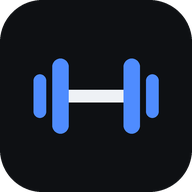
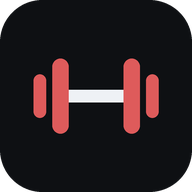
Add files via upload

Changed region(s): [[0.625, 0.2812, 0.8438, 0.7188], [0.1562, 0.2812, 0.375, 0.7188]]

diff --git a/index.html b/index.html
@@ -13,7 +13,7 @@
 <link rel="icon" type="image/png" href="icon-192.png">
 <link rel="apple-touch-icon" href="apple-touch-icon.png">
 <style>
-:root{--bg:#0e1013;--card:#171a20;--card2:#20242c;--line:#2a2f39;--text:#eef1f5;--mute:#8b93a1;--acc:#4f8cff;--ok:#2fbf71;--warn:#ff5d5d;--r:14px;color-scheme:dark}
+:root{--bg:#0e1013;--card:#171a20;--card2:#20242c;--line:#2a2f39;--text:#eef1f5;--mute:#8b93a1;--acc:#de5b5b;--accsoft:rgba(222,91,91,.15);--acclt:#f4a5a5;--ok:#2fbf71;--warn:#ff7a5c;--r:14px;color-scheme:dark}
 *{box-sizing:border-box;-webkit-tap-highlight-color:transparent}
 html,body{margin:0;background:var(--bg);color:var(--text);font:15px/1.4 -apple-system,system-ui,"Segoe UI",Roboto,sans-serif}
 body{padding-bottom:calc(72px + env(safe-area-inset-bottom))}
@@ -23,6 +23,7 @@ header{position:sticky;top:0;z-index:5;background:rgba(14,16,19,.94);backdrop-fi
 header h1{font-size:22px;margin:0;flex:1;white-space:nowrap;overflow:hidden;text-overflow:ellipsis}
 header h1.sm{font-size:17px}
 main{padding:12px 16px 24px;max-width:640px;margin:0 auto}
+h2::before{content:'';display:inline-block;width:7px;height:7px;border-radius:2px;background:var(--acc);margin-right:8px;vertical-align:1px}
 h2{font-size:13px;text-transform:uppercase;letter-spacing:.06em;color:var(--mute);margin:20px 0 8px;font-weight:600}
 nav{position:fixed;bottom:0;left:0;right:0;display:flex;background:#12151a;border-top:1px solid var(--line);padding-bottom:env(safe-area-inset-bottom);z-index:6}
 nav button{flex:1;background:none;border:0;color:var(--mute);padding:8px 0 6px;font-size:11px;display:flex;flex-direction:column;align-items:center;gap:2px;font-family:inherit}
@@ -32,7 +33,10 @@ body.wk nav,body.wk #banner{display:none}
 #banner{position:fixed;left:10px;right:10px;bottom:calc(64px + env(safe-area-inset-bottom));background:var(--acc);color:#fff;border-radius:12px;padding:10px 14px;display:none;z-index:6;font-weight:600;box-shadow:0 6px 20px rgba(0,0,0,.4)}
 #banner.show{display:flex;align-items:center;gap:8px}
 .card{background:var(--card);border:1px solid var(--line);border-radius:var(--r);padding:12px 14px;margin-bottom:10px}
-.card.hl{border-color:var(--acc)}
+.card.hl{border-color:var(--acc);background:linear-gradient(135deg,var(--accsoft),var(--card) 60%)}
+.card.rt{border-left:3px solid var(--acc)}
+.btn.soft{background:var(--accsoft);color:var(--acclt)}
+header::after{content:'';position:absolute;left:0;right:0;bottom:-1px;height:2px;background:linear-gradient(90deg,var(--acc),transparent 70%)}
 .tap{cursor:pointer}
 .row{display:flex;align-items:center;gap:8px}
 .grow{flex:1;min-width:0}
@@ -43,7 +47,7 @@ body.wk nav,body.wk #banner{display:none}
 .btn{border:0;border-radius:10px;padding:10px 14px;font:600 15px inherit;font-family:inherit;background:var(--card2);color:var(--text);cursor:pointer}
 .btn.pri{background:var(--acc);color:#fff}
 .btn.ok{background:var(--ok);color:#fff}
-.btn.danger{background:transparent;color:var(--warn);border:1px solid #4a2a2e}
+.btn.danger{background:transparent;color:var(--warn);border:1px solid #4a2f2a}
 .btn.ghost{background:transparent;border:1px dashed var(--line);color:var(--acc)}
 .btn.full{width:100%;margin-top:8px}
 .btn.sm{padding:7px 10px;font-size:14px}
@@ -53,7 +57,7 @@ body.wk nav,body.wk #banner{display:none}
 .bigbtn .ico{width:40px;height:40px;border-radius:10px;display:flex;align-items:center;justify-content:center;font-size:20px;flex:none}
 .bigbtn.red{color:var(--warn)}
 .iconbtn{background:none;border:0;color:var(--mute);font-size:20px;padding:4px 8px;cursor:pointer;font-family:inherit}
-.fab{position:fixed;right:18px;bottom:calc(78px + env(safe-area-inset-bottom));width:56px;height:56px;border-radius:50%;background:var(--acc);color:#fff;border:0;font-size:30px;line-height:1;box-shadow:0 6px 20px rgba(0,0,0,.45);z-index:4;cursor:pointer}
+.fab{box-shadow:0 6px 20px rgba(222,91,91,.4)!important;position:fixed;right:18px;bottom:calc(78px + env(safe-area-inset-bottom));width:56px;height:56px;border-radius:50%;background:var(--acc);color:#fff;border:0;font-size:30px;line-height:1;box-shadow:0 6px 20px rgba(0,0,0,.45);z-index:4;cursor:pointer}
 input,select{width:100%;background:var(--card2);color:var(--text);border:1px solid var(--line);border-radius:10px;padding:10px 12px;font:16px inherit;font-family:inherit;outline:none}
 input:focus,select:focus{border-color:var(--acc)}
 label{display:block;font-size:12.5px;color:var(--mute);margin:12px 0 0}
@@ -64,14 +68,14 @@ label input,label select{margin-top:5px}
 .chips.wrap{flex-wrap:wrap;overflow:visible}
 .chip{flex:none;border:1px solid var(--line);background:var(--card);color:var(--text);border-radius:999px;padding:6px 12px;font-size:13.5px;cursor:pointer;font-family:inherit}
 .chip.on{background:var(--acc);border-color:var(--acc);color:#fff}
-.tag{display:inline-block;font-size:11.5px;background:var(--card2);color:var(--mute);border-radius:6px;padding:2px 7px;margin:4px 4px 0 0}
+.tag{display:inline-block;font-size:11.5px;background:var(--accsoft);color:var(--acclt);border-radius:6px;padding:2px 7px;margin:4px 4px 0 0}
 .badge{display:inline-block;font-size:11px;font-weight:600;border-radius:6px;padding:2px 7px}
 .t0{background:#1d2c48;color:#8db4ff}.t1{background:#45311a;color:#ffb871}.t2{background:#33224a;color:#c9a2ff}
 .days{display:grid;grid-template-columns:repeat(7,1fr);gap:6px}
 .days .chip{padding:9px 0;text-align:center}
 .dmini{display:inline-flex;gap:3px}
 .dmini span{font-size:10.5px;width:17px;height:17px;border-radius:5px;display:inline-flex;align-items:center;justify-content:center;background:var(--card2);color:#555c68}
-.dmini span.on{background:#1d2c48;color:#8db4ff}
+.dmini span.on{background:var(--accsoft);color:var(--acclt)}
 .seg{display:flex;background:var(--card);border:1px solid var(--line);border-radius:10px;padding:3px;margin:8px 0}
 .seg button{flex:1;border:0;background:none;color:var(--mute);padding:7px 0;border-radius:8px;font:600 12.5px inherit;font-family:inherit}
 .seg button.on{background:var(--card2);color:var(--text)}
@@ -152,7 +156,7 @@ label input,label select{margin-top:5px}
 .achcard{display:flex;align-items:center;gap:12px}
 .achcard .big{font-size:34px}
 .prog{height:6px;background:var(--card2);border-radius:6px;overflow:hidden;margin-top:8px}
-.prog i{display:block;height:100%;background:linear-gradient(90deg,var(--acc),#ffd76a);border-radius:6px}
+.prog i{display:block;height:100%;background:linear-gradient(90deg,var(--acc),#ffb38a);border-radius:6px}
 .medals{display:grid;grid-template-columns:repeat(3,1fr);gap:10px;margin-top:10px}
 .medal{background:var(--card);border:1px solid var(--line);border-radius:14px;padding:12px 6px;text-align:center;cursor:pointer;font-family:inherit;color:var(--text)}
 .medal .e{font-size:34px;line-height:1.2}
@@ -256,7 +260,7 @@ function dmini(days){return `<span class="dmini">${DAYS.map((d,i)=>`<span class=
 function vTrain(){
   const t=todayIdx();
   const todays=db.routines.filter(r=>r.days.includes(t)),others=db.routines.filter(r=>!r.days.includes(t));
-  const card=r=>{const ld=lastDone(r.id);return `<div class="card"><div class="row"><div class="grow"><b>${esc(r.name)}</b><div style="margin-top:4px">${dmini(r.days)}</div></div><button class="btn pri" data-a="start" data-id="${r.id}">Empezar</button></div>
+  const card=r=>{const ld=lastDone(r.id);return `<div class="card rt"><div class="row"><div class="grow"><b>${esc(r.name)}</b><div style="margin-top:4px">${dmini(r.days)}</div></div><button class="btn pri" data-a="start" data-id="${r.id}">Empezar</button></div>
     <div class="mute small" style="margin-top:8px">${r.items.map(it=>esc(getEx(it.exId)?.name||'?')).join(' · ')||'Sin ejercicios'}</div>
     ${ld?`<div class="mute small" style="margin-top:4px">Último: ${fmtDate(ld)}</div>`:''}</div>`};
   let h='';
@@ -272,7 +276,7 @@ function vTrain(){
 function vRoutines(){
   const list=db.routines.filter(r=>rFilter===null||r.days.includes(rFilter));
   let h=`<div class="chips" style="margin-bottom:10px"><button class="chip ${rFilter===null?'on':''}" data-a="rFilter" data-d="">Todas</button>${DAY_FULL.map((d,i)=>`<button class="chip ${rFilter===i?'on':''}" data-a="rFilter" data-d="${i}">${d}</button>`).join('')}</div>`;
-  h+=list.length?list.map(r=>`<div class="card tap" data-a="rOpen" data-id="${r.id}"><div class="row"><b class="grow">${esc(r.name)}</b>${dmini(r.days)}</div>
+  h+=list.length?list.map(r=>`<div class="card tap rt" data-a="rOpen" data-id="${r.id}"><div class="row"><b class="grow">${esc(r.name)}</b>${dmini(r.days)}</div>
     <div class="mute small" style="margin-top:6px">${r.items.length} ejercicio${r.items.length===1?'':'s'} · ${r.items.reduce((a,b)=>a+(+b.sets||0),0)} series</div>
     <div class="small" style="margin-top:4px">${r.items.map(it=>esc(getEx(it.exId)?.name||'?')).join(' · ')}</div></div>`).join('')
     :`<p class="empty">${db.routines.length?'No hay rutinas este día.':'Aún no tienes rutinas. Pulsa + para crear una.'}</p>`;
@@ -296,7 +300,7 @@ function renderExList(){
 function volume(h){return h.exercises.reduce((a,e)=>a+e.sets.reduce((b,s)=>b+(+s.w||0)*(+s.r||0),0),0)}
 function vHistory(){
   if(!db.history.length)return achCard()+`<p class="empty">Aún no hay entrenamientos registrados.</p>`;
-  return achCard()+db.history.map(h=>`<div class="card tap" data-a="hOpen" data-id="${h.id}"><b>${esc(h.name)}</b><div class="mute small">${fmtDate(h.start)}</div>
+  return achCard()+`<h2>Entrenos</h2>`+db.history.map(h=>`<div class="card tap rt" data-a="hOpen" data-id="${h.id}"><div class="row"><div class="grow"><b>${esc(h.name)}</b><div class="mute small">${fmtDate(h.start)}</div></div><button class="btn sm soft" data-a="repeat" data-id="${h.id}">↻ Repetir</button></div>
    <div class="stat"><span>⏱ <b>${fmtDur(h.end-h.start)}</b></span><span>Series <b>${h.exercises.reduce((a,e)=>a+e.sets.length,0)}</b></span><span>Volumen <b>${fmtW(volume(h))} kg</b></span></div>
    <div class="small" style="margin-top:6px">${h.exercises.map(e=>`${e.sets.length}× ${esc(e.name)}`).join(' · ')}</div></div>`).join('');
 }
@@ -304,12 +308,19 @@ function vHistory(){
 /* ---------- WORKOUT ---------- */
 function prevSets(exId){for(const h of db.history){const e=h.exercises.find(x=>x.exId===exId);if(e)return e.sets}return []}
 function mkWEx(exId,sets=3,reps='',rest=90){const ex=getEx(exId);if(!ex)return null;return{exId,name:ex.name,type:ex.type,rest:+rest||0,target:reps||'',sets:Array.from({length:Math.max(1,+sets||1)},()=>({w:'',r:'',done:false}))}}
-function startWorkout(r){
+function startWorkout(r,from){
   if(db.active&&!confirm('Ya hay un entrenamiento en curso. ¿Descartarlo y empezar otro?'))return;
-  db.active={id:uid(),routineId:r?r.id:null,name:r?r.name:'Entrenamiento libre',start:Date.now(),restEnd:0,restTotal:0,
-    exercises:(r?r.items:[]).map(it=>mkWEx(it.exId,it.sets,it.reps,it.rest)).filter(Boolean)};
+  let exs;
+  if(from){ // repetir un entreno del historial: mismos ejercicios, series y descansos, con sus pesos/reps como guía
+    exs=from.exercises.map(e=>{const ex=getEx(e.exId);return{exId:e.exId,name:ex?ex.name:e.name,type:ex?ex.type:(e.type||''),rest:e.rest??90,target:'',
+      sets:e.sets.map(s=>({w:'',r:'',done:false,pw:s.w,pr:s.r}))}});
+  }else exs=(r?r.items:[]).map(it=>mkWEx(it.exId,it.sets,it.reps,it.rest)).filter(Boolean);
+  db.active={id:uid(),routineId:from?from.routineId:(r?r.id:null),name:from?from.name:(r?r.name:'Entrenamiento libre'),start:Date.now(),restEnd:0,restTotal:0,exercises:exs};
+  while(stack.length)closeSheet();
   save();view='workout';window.scrollTo(0,0);render();
+  if(from)toast('Repitiendo «'+from.name+'» 🔁');
 }
+function repeatWorkout(id){const h=db.history.find(x=>x.id===id);if(h)startWorkout(null,h)}
 function renderWorkout(){
   const a=db.active,y=window.scrollY;
   document.body.classList.add('wk');keepAwake(true);
@@ -321,8 +332,8 @@ function renderWorkout(){
     <div class="sh"><span>Serie</span><span>Anterior</span><span>kg</span><span>Reps</span><span></span></div>
     ${e.sets.map((s,j)=>{const p=prev[j];return `<div class="srow ${s.done?'done':''}"><span class="sn" data-a="delSet" data-i="${i}" data-j="${j}">${j+1}</span>
       <span class="prev">${p?`${fmtW(p.w)} × ${p.r}`:'—'}</span>
-      <input type="number" inputmode="decimal" step="any" data-wf="w" data-i="${i}" data-j="${j}" value="${esc(s.w)}" placeholder="${p?esc(p.w):''}">
-      <input type="number" inputmode="numeric" data-wf="r" data-i="${i}" data-j="${j}" value="${esc(s.r)}" placeholder="${p?esc(p.r):tgt}">
+      <input type="number" inputmode="decimal" step="any" data-wf="w" data-i="${i}" data-j="${j}" value="${esc(s.w)}" placeholder="${s.pw!=null?esc(s.pw):p?esc(p.w):''}">
+      <input type="number" inputmode="numeric" data-wf="r" data-i="${i}" data-j="${j}" value="${esc(s.r)}" placeholder="${s.pr!=null?esc(s.pr):p?esc(p.r):tgt}">
       <button class="chk" data-a="toggle" data-i="${i}" data-j="${j}">✓</button></div>`}).join('')}
     <button class="btn ghost full sm" data-a="addSet" data-i="${i}">+ Añadir serie</button></div>`}).join('');
   if(!a.exercises.length)h+=`<p class="empty">Añade ejercicios para empezar.</p>`;
@@ -334,8 +345,8 @@ function toggleSet(i,j){
   const e=db.active.exercises[i],s=e.sets[j];
   if(!s.done){
     const p=prevSets(e.exId)[j];
-    if(s.w===''&&p)s.w=String(p.w);
-    if(s.r==='')s.r=p?String(p.r):(parseInt(e.target)?String(parseInt(e.target)):'');
+    if(s.w==='')s.w=s.pw!=null?String(s.pw):p?String(p.w):'';
+    if(s.r==='')s.r=s.pr!=null?String(s.pr):p?String(p.r):(parseInt(e.target)?String(parseInt(e.target)):'');
     if(s.r===''){toast('Indica las repeticiones');return}
     s.done=true;startRest(e.rest);
   }else s.done=false;
@@ -463,6 +474,7 @@ function openHistory(id){
   openSheet(()=>`<div class="shead"><button data-a="close">Cerrar</button><b>${esc(h.name)}</b><button></button></div>
     <div class="mute small">${fmtDate(h.start)}</div>
     <div class="stat" style="margin-bottom:12px"><span>⏱ <b>${fmtDur(h.end-h.start)}</b></span><span>Volumen <b>${fmtW(volume(h))} kg</b></span></div>
+    <button class="btn pri full" style="margin:0 0 14px" data-a="repeat" data-id="${h.id}">↻ Repetir este entreno</button>
     ${h.exercises.map(e=>`<div class="card"><b class="acc">${esc(e.name)}</b><div class="mute small">${esc(e.type||'')} · descanso ${e.rest}s</div>
       ${e.sets.map((s,j)=>`<div class="row small" style="margin-top:4px"><span class="mute" style="width:22px">${j+1}</span><span>${fmtW(s.w)} kg × ${s.r}</span></div>`).join('')}</div>`).join('')}
     <button class="btn danger full" style="margin-top:16px" data-a="hDel" data-id="${h.id}">Eliminar entrenamiento</button>`);
@@ -525,6 +537,7 @@ document.addEventListener('click',e=>{
     case 'pickNew':openExercise(null,nid=>pk.sel.add(nid));break;
     case 'pickDone':{if(!pk.sel.size){toast('Selecciona al menos uno');break}const ids=[...pk.sel],cb=pk.cb;closeSheet();cb&&cb(ids);break}
     case 'hOpen':openHistory(id);break;
+    case 'repeat':repeatWorkout(id);break;
     case 'hDel':if(confirm('¿Eliminar este entrenamiento del historial?')){db.history=db.history.filter(h=>h.id!==id);save();closeSheet();render()}break;
     case 'export':{const b=new Blob([JSON.stringify({...db,active:null},null,1)],{type:'application/json'}),u=URL.createObjectURL(b),l=document.createElement('a');l.href=u;l.download=`gymlog-${new Date().toISOString().slice(0,10)}.json`;document.body.appendChild(l);l.click();l.remove();setTimeout(()=>URL.revokeObjectURL(u),1000);db.lastBackup=Date.now();save();refreshSheet();toast('Copia descargada');break}
     case 'import':document.getElementById('impf').click();break;
@@ -620,7 +633,7 @@ const FX={c:null,x:null,p:[],raf:0,last:0,show:null,
     this.p=keep;
     if(this.p.length||this.show)this.raf=requestAnimationFrame(tt=>this.loop(tt));else{this.raf=0;x.clearRect(0,0,W,H)}
   },
-  COLORS:['#4f8cff','#ffd76a','#2fbf71','#ff5d8f','#c9a2ff','#ff9f43','#ffffff'],
+  COLORS:['#de5b5b','#f4a5a5','#4f8cff','#ffd76a','#2fbf71','#ff5d8f','#c9a2ff','#ff9f43','#ffffff'],
   confetti(x,y,n,ang,spread,pow){this.start();for(let i=0;i<n;i++){const a=ang+(Math.random()-.5)*spread,v=pow*(.5+Math.random()*.7);this.p.push({k:'conf',x,y,vx:Math.cos(a)*v,vy:Math.sin(a)*v,r:Math.random()*6,vr:(Math.random()-.5)*.3,ph:Math.random()*6,w:6+Math.random()*6,h:4+Math.random()*5,c:this.COLORS[i%this.COLORS.length],life:1.6+Math.random(),decay:.006})}},
   rain(n){this.start();for(let i=0;i<n;i++)this.p.push({k:'conf',x:Math.random()*innerWidth,y:-20-Math.random()*innerHeight*.8,vx:(Math.random()-.5)*1.5,vy:1+Math.random()*2,r:Math.random()*6,vr:(Math.random()-.5)*.25,ph:Math.random()*6,w:6+Math.random()*6,h:4+Math.random()*5,c:this.COLORS[i%this.COLORS.length],life:3,decay:.004})},
   rocket(big){this.start();const W=innerWidth,H=innerHeight;const c=['#ffd76a','#4f8cff','#ff5d8f','#2fbf71','#c9a2ff','#ff9f43','#7ff0ff'][Math.random()*7|0];

diff --git a/sw.js b/sw.js
@@ -1,6 +1,6 @@
 // Service worker de Gym Log: permite instalarla y usarla sin conexión.
 // Estrategia: red primero (para recibir actualizaciones), caché si no hay conexión.
-const CACHE = 'gymlog-v3';
+const CACHE = 'gymlog-v4';
 const FILES = ['./', './index.html', './manifest.json', './icon-192.png', './icon-512.png', './icon-maskable-512.png', './apple-touch-icon.png'];
 
 self.addEventListener('install', e => {
